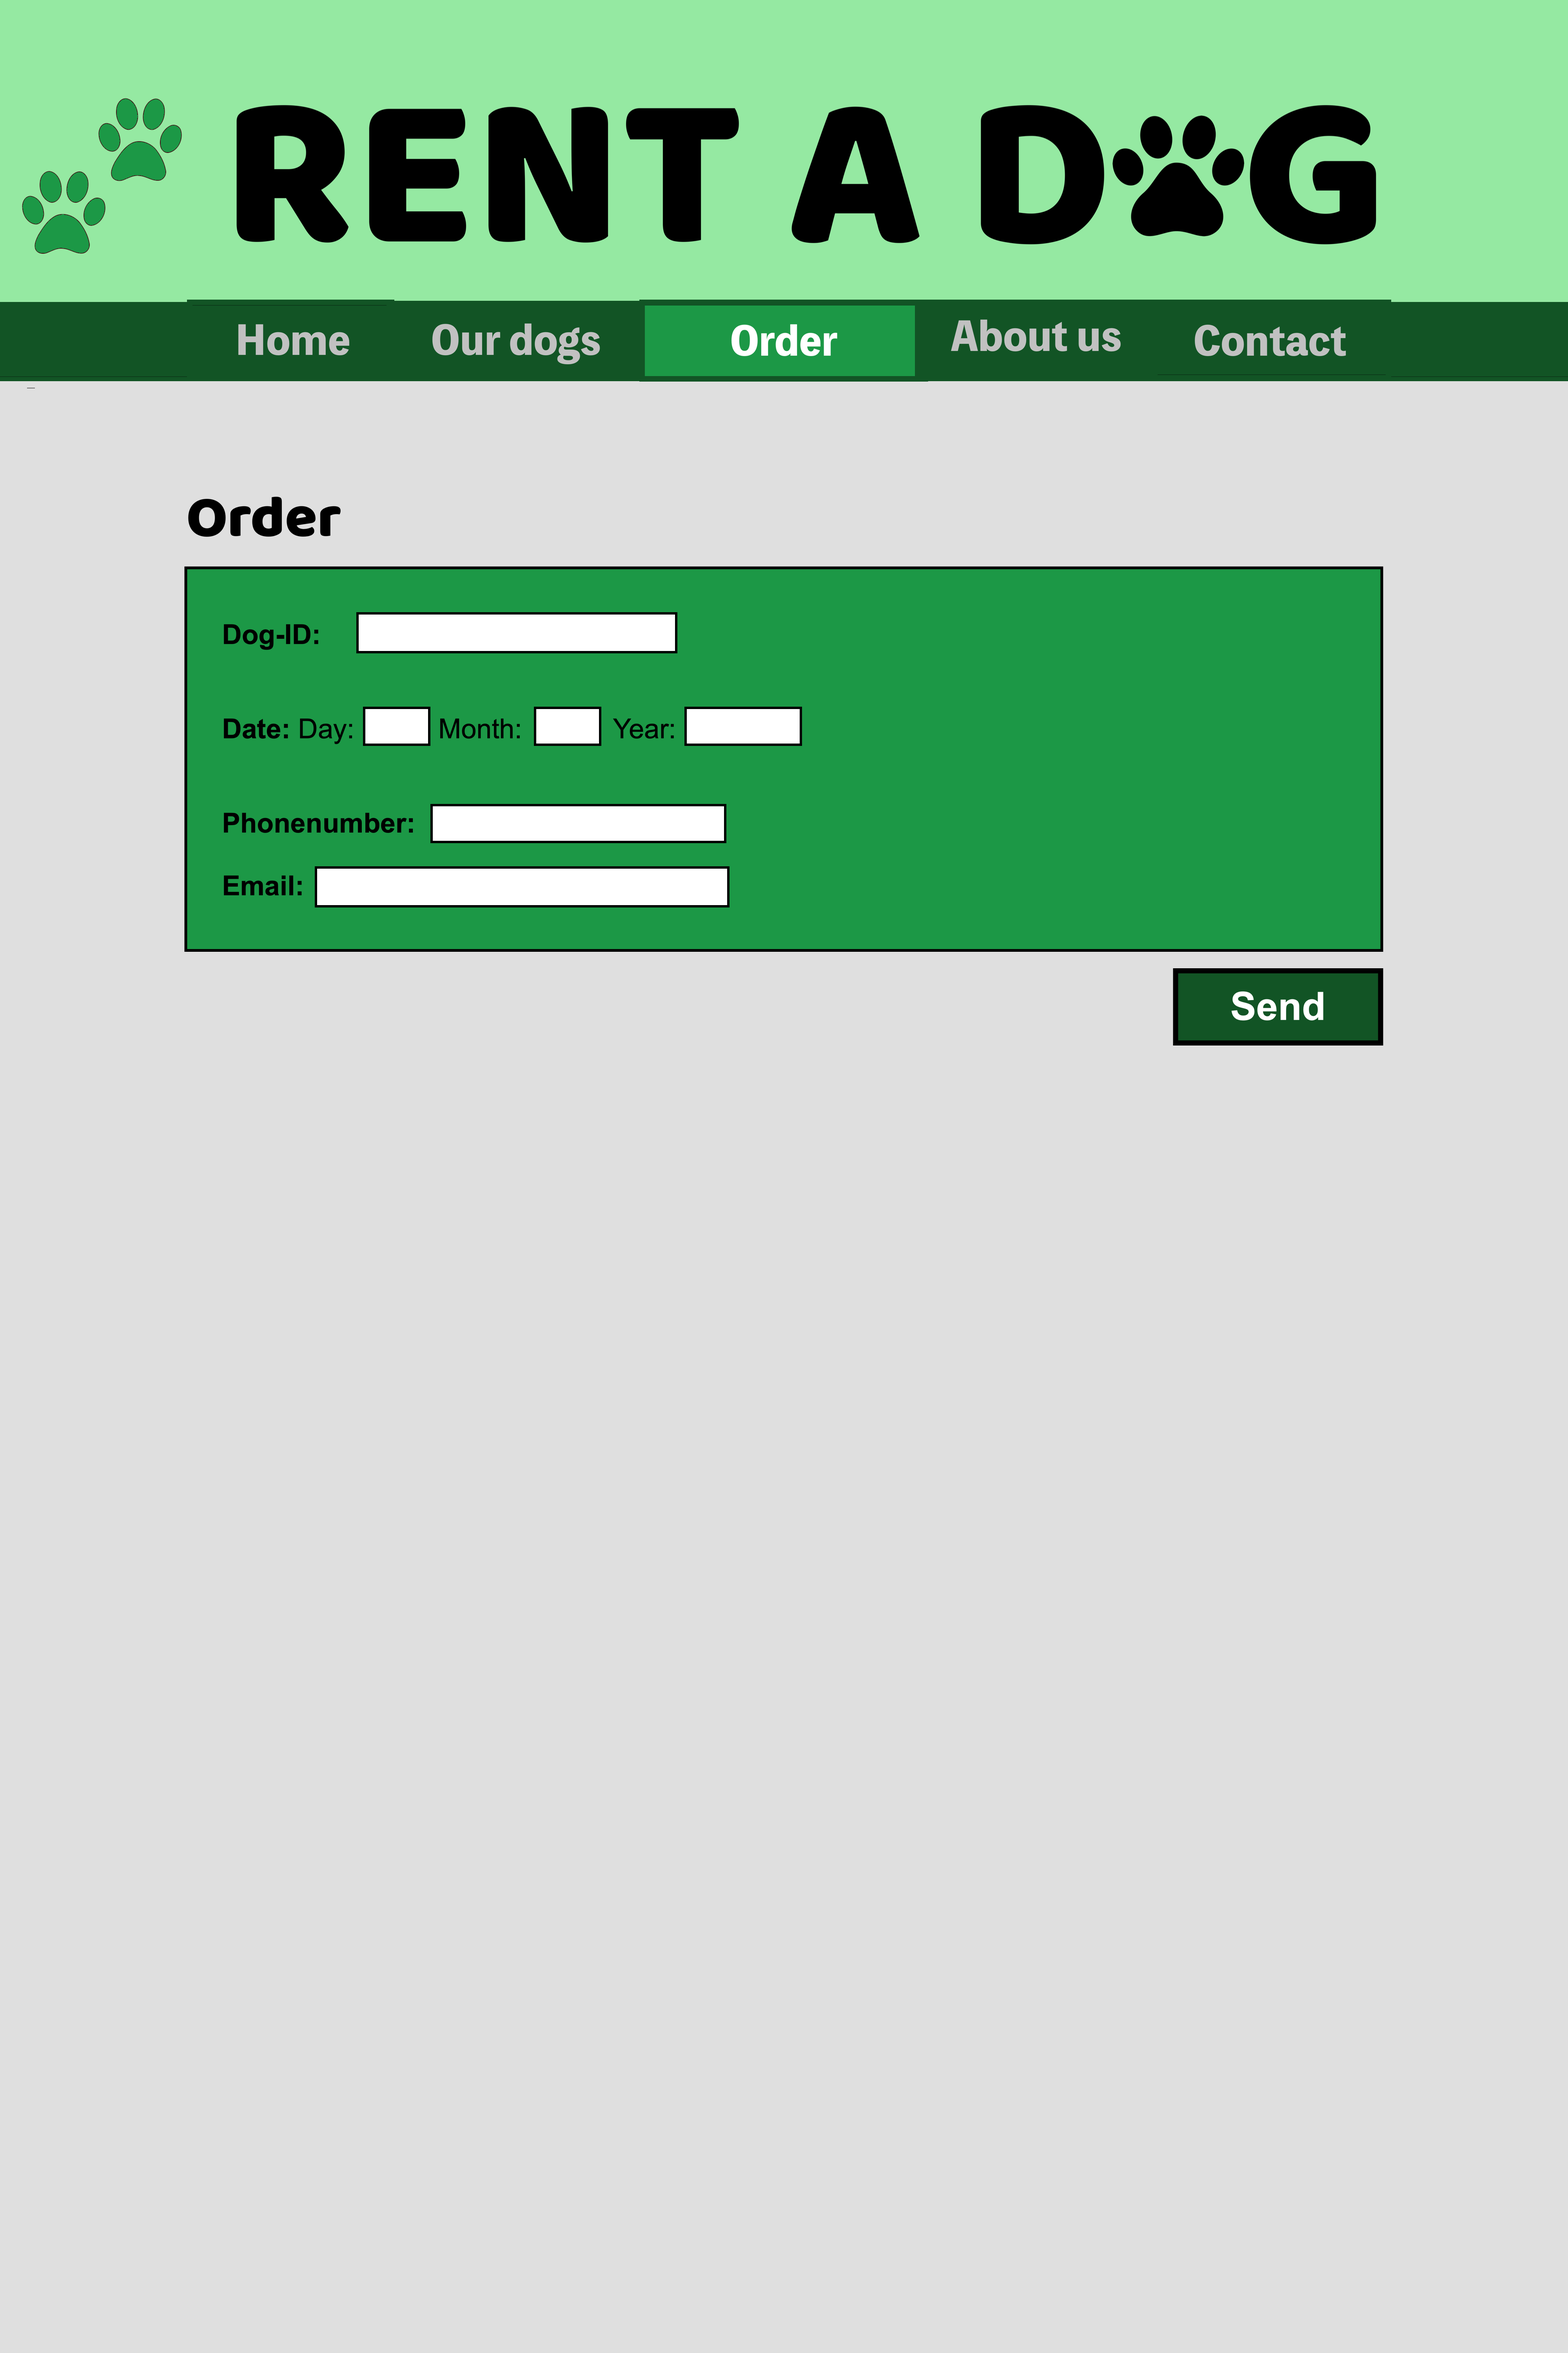
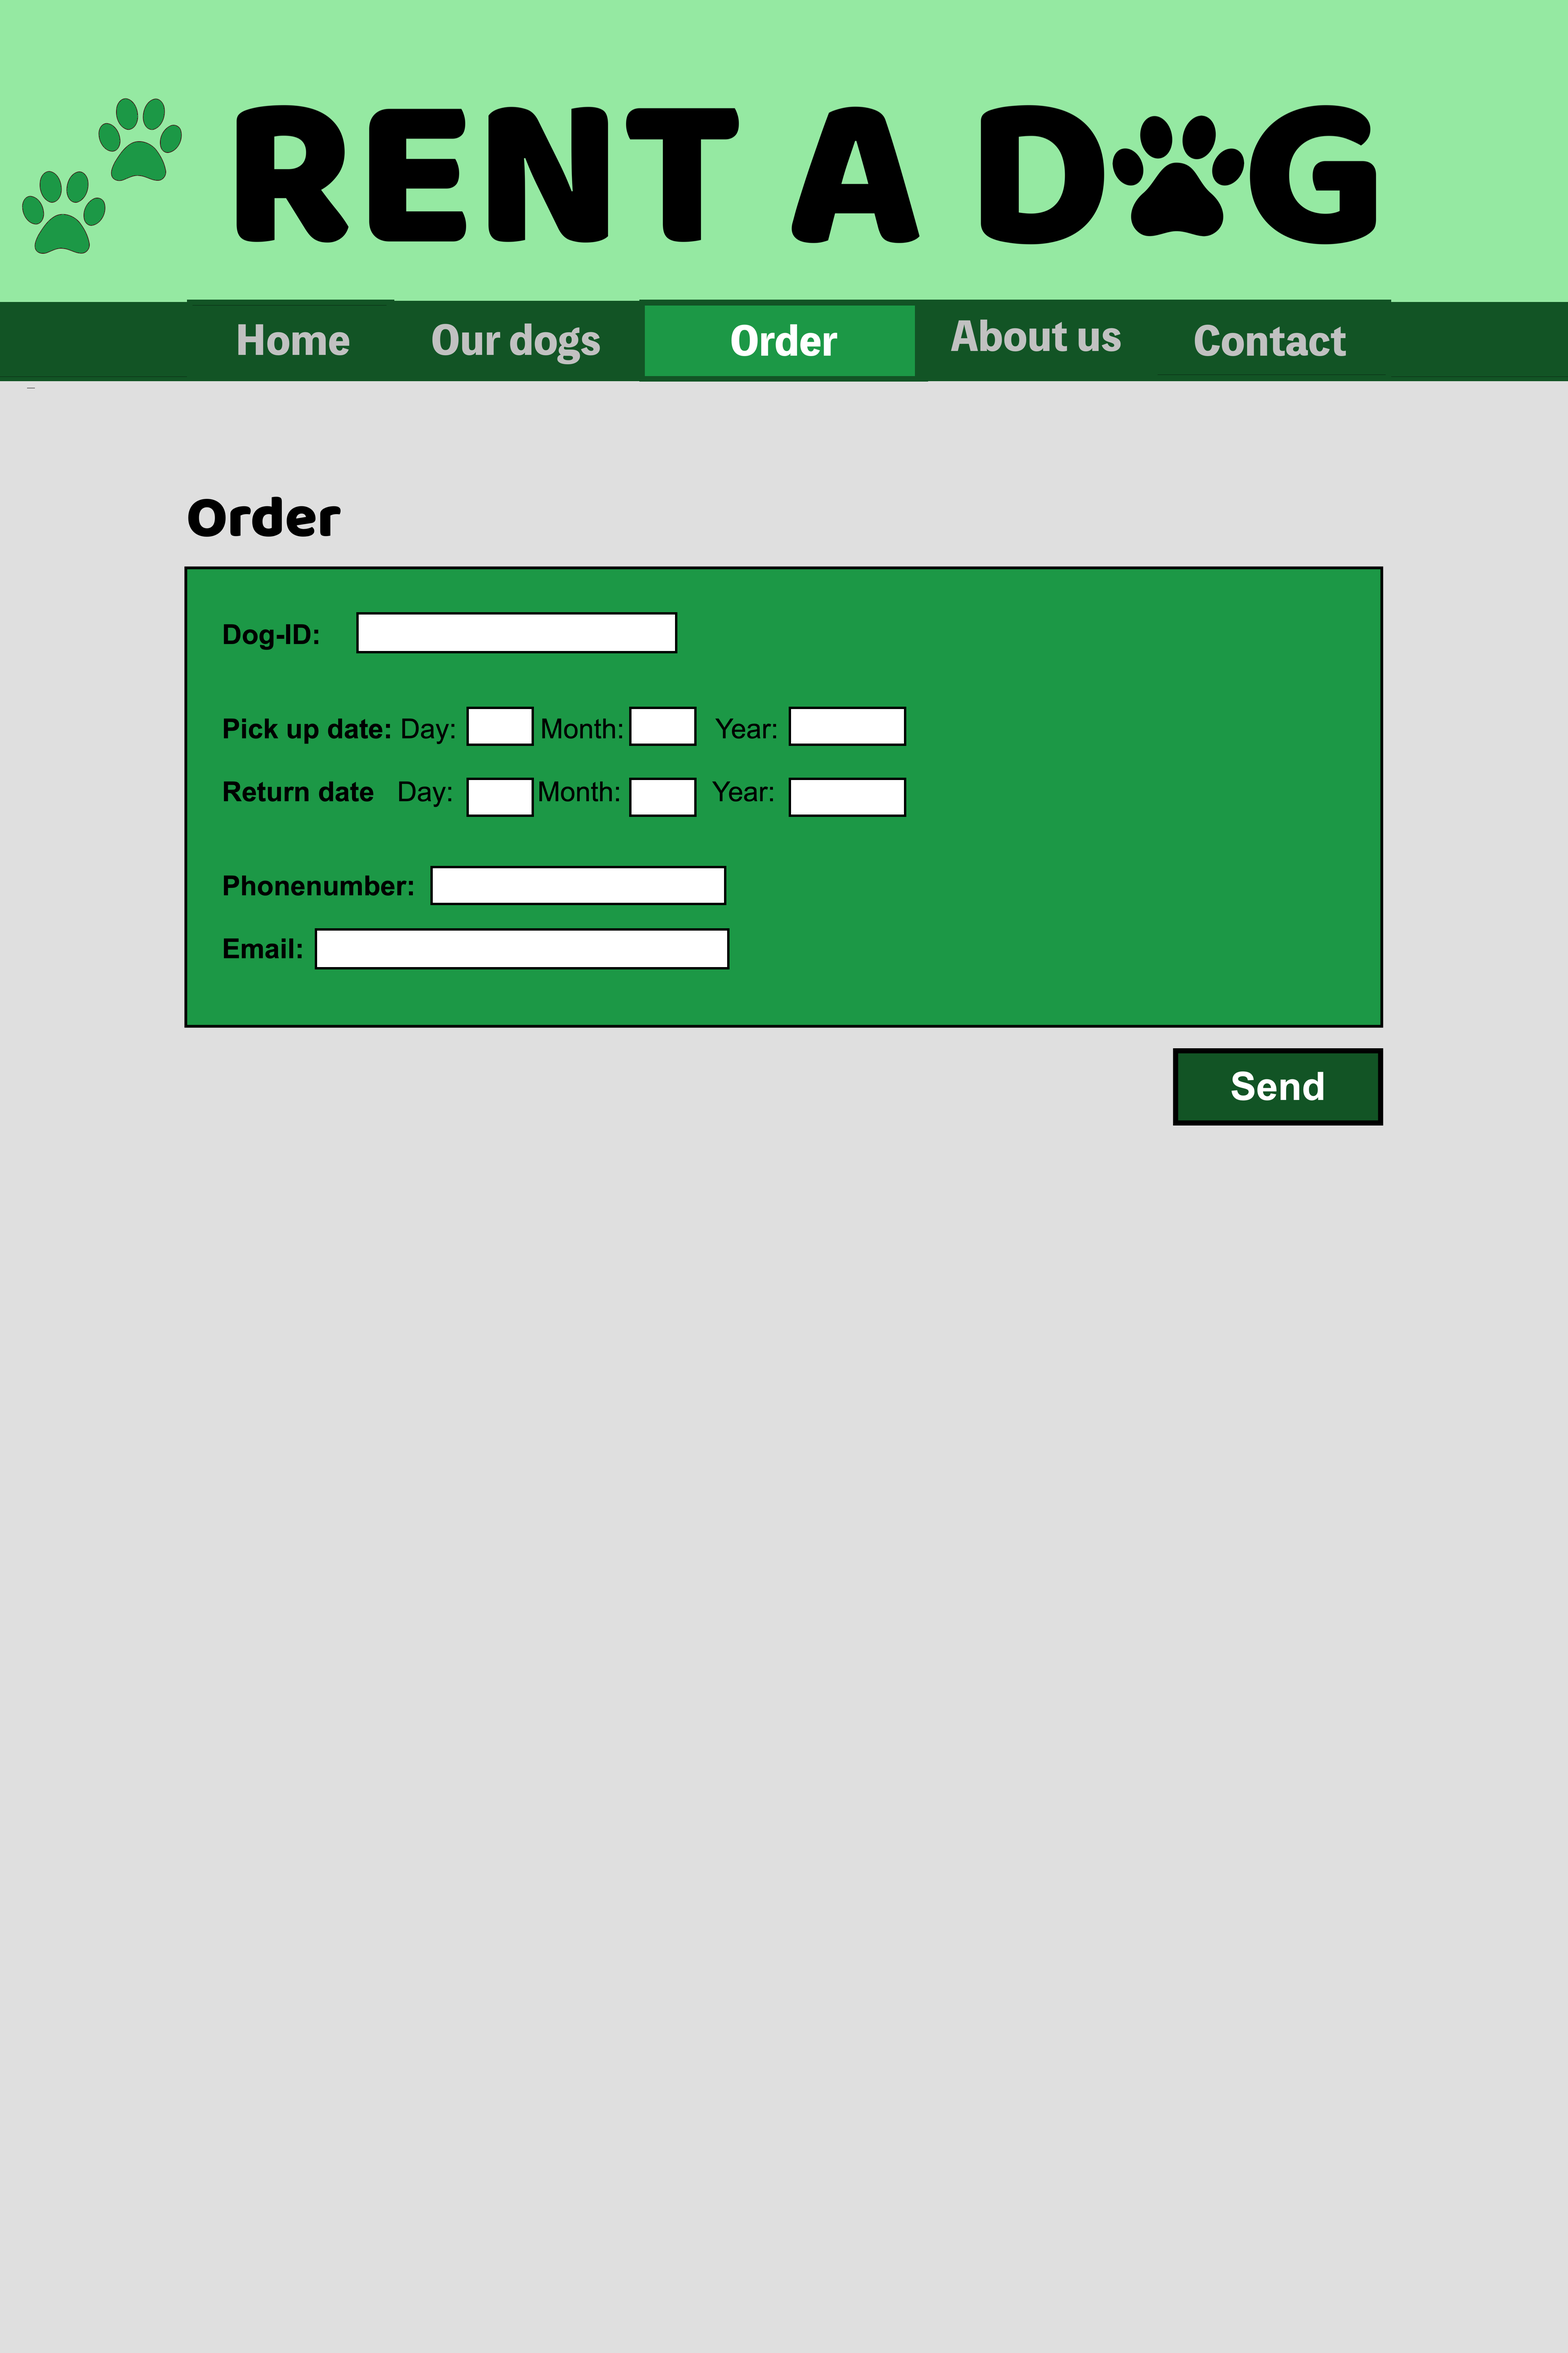
La til mockups på siden

Changed region(s): [[0.0938, 0.2805, 0.9062, 0.4987]]

diff --git a/P2_requirements_2.html b/P2_requirements_2.html
@@ -65,6 +65,7 @@
                             The second section will highlight three popular dogs. This will include a picture of the dog, its name and a characteristic. 
                             Beneath the dog highlight, there will be a video illustrating the joy of having a dog.
                         </p>
+                        <img src="img/mockup_home_green.png" alt="Home page" width="300px">
                     <li>Our Dogs-ourdogs.html</li>
                         <p>
                             Our dogs content:
@@ -74,24 +75,31 @@
                             ation: the name, race, size and characteristic. On the left side of the webpage there will be a box with filter settings. For example, t
                             he user shall be able to filter on castrated/not castrated dogs and small/big dogs.
                         </p>
+                        <img src="img/mockup_ourdogs_green.png" alt="Our dogs page" width="300px">
                     <li>About Us-aboutus.html</li>
                         <p>
                             In the about us section it will tell the user something about us. 
                             We will have information about the developers and the workers, and pictures of them. 
                             The goals of the website will be listed, as well as the story behind. 
                         </p>
+                        <img src="img/mockup_aboutus_green.png" alt="About us page" width="300px">
                     <li>Contact Us-contactus.html</li>
                         <p>
-                            Contact us.
-
-                            Mail: Rentadog@gmail.com
-                            
-                            Tlf: 00 90 00 90 
-                            
-                            Adr: Rosenborg Alle´ 1
-                            
-                            If you have any questions for rentadog:
-                        </p>    
+                            On the contact page, all of the "Rent a dog" contact information will be available. Such as the email, phonenumber and address. 
+                            Also there will be a white box, where the user easily can write in questions or other inquiries, directly on the website if they want to. 
+                            At the bottom right corner, there will be a green "send" button, that will both send in their question, and let them
+                            know that the question has in fact been sent.
+                        </p>
+                        <img src="img/mockup_contact_green.png" alt="Contact us page" width="300px">
+                    <li>Order-order.html</li>
+                        <p>
+                            On the order page, the user will be able to order the preferred dog using a socalled "Dog-ID". 
+                            Every dog has a unique ID, and this makes it possible for the user to specify which of the dogs he/she wants to rent.
+                            On the page, we will display a form where the user can fill out all the necessary details. This includes the dates in which they would like to rent,
+                            their phonenumber and their email address. At the bottom right corner, there will be a "Send" button, that sends all the information to "Rent a dog".
+                            Furthermore, when the user have pressed the button, there will be an animation, that lets them know that the order has been placed.  
+                        </p>
+                        <img src="img/mockup_order_green.png" alt="Order page" width="300px">
                 </ol>
     </div>
 
